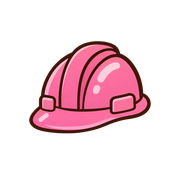
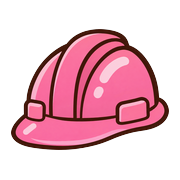
Changes

Changed region(s): [[0.0556, 0.1389, 0.9444, 0.8333]]

diff --git a/src/routes/__root.tsx b/src/routes/__root.tsx
@@ -88,9 +88,11 @@ export const Route = createRootRouteWithContext<{ queryClient: QueryClient }>()(
         rel: "stylesheet",
         href: appCss,
       },
-      { rel: "icon", type: "image/png", sizes: "64x64", href: "/favicon.png" },
-      { rel: "icon", type: "image/x-icon", sizes: "16x16 32x32 48x48", href: "/favicon.ico" },
-      { rel: "apple-touch-icon", sizes: "180x180", href: "/apple-touch-icon.png" },
+      { rel: "icon", type: "image/png", sizes: "32x32", href: "/favicon-32x32.png?v=2" },
+      { rel: "icon", type: "image/png", sizes: "16x16", href: "/favicon-16x16.png?v=2" },
+      { rel: "icon", type: "image/png", sizes: "512x512", href: "/favicon.png?v=2" },
+      { rel: "icon", type: "image/x-icon", sizes: "16x16 32x32 48x48", href: "/favicon.ico?v=2" },
+      { rel: "apple-touch-icon", sizes: "180x180", href: "/apple-touch-icon.png?v=2" },
       { rel: "preconnect", href: "https://fonts.googleapis.com" },
       { rel: "preconnect", href: "https://fonts.gstatic.com", crossOrigin: "anonymous" },
       { rel: "stylesheet", href: "https://fonts.googleapis.com/css2?family=Fredoka:wght@400;500;600;700&family=IBM+Plex+Mono:wght@400;500&family=Mochiy+Pop+One&family=Nunito:ital,wght@0,400;0,600;0,700;1,400&family=Patrick+Hand&display=swap" },
